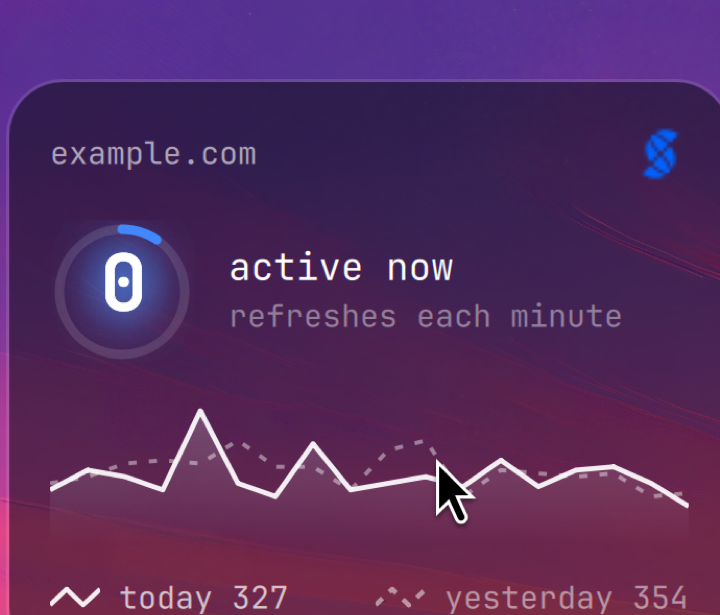
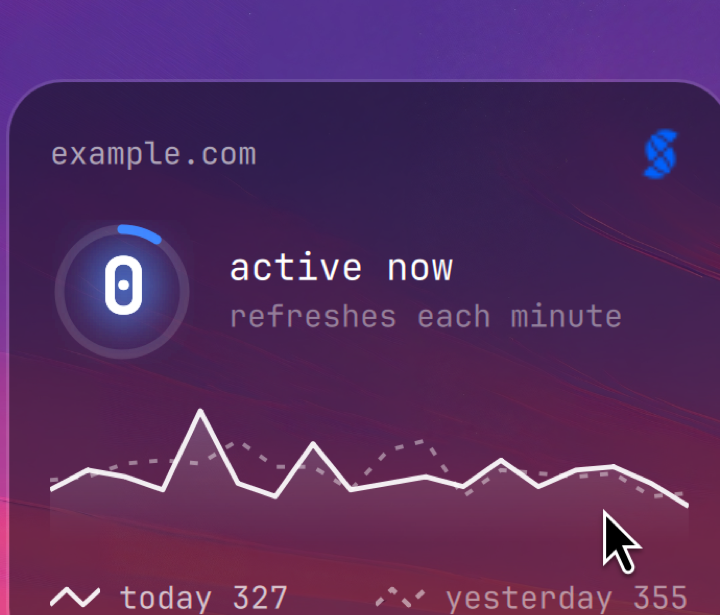
Centre the number in the ring, lighten the tooltip
The glowing count sat a hair high; nudged it onto the ring's centre. The
hover tooltip was near-black and read as a warning; it's now a lighter,
slightly transparent glass tinted to the wallpaper.

diff --git a/Desktop.qml b/Desktop.qml
@@ -167,11 +167,11 @@ Item {
               ctx.shadowColor = small ? "rgba(80,150,255,0.95)" : "rgba(255,255,255,0.35)"
               ctx.shadowBlur = small ? 14 : 6
               ctx.fillStyle = "#ffffff"
-              ctx.fillText(txt, cx, cy + 1)
-              ctx.fillText(txt, cx, cy + 1)
+              ctx.fillText(txt, cx, cy + 2)
+              ctx.fillText(txt, cx, cy + 2)
               // crisp pass on top
               ctx.shadowBlur = 0
-              ctx.fillText(txt, cx, cy + 1)
+              ctx.fillText(txt, cx, cy + 2)
             }
           }
           Column {
@@ -260,8 +260,8 @@ Item {
           Rectangle {
             visible: root.hoverIndex >= 0 && root.hoverIndex < root.hourly.length
             radius: Style.space(7)
-            color: Qt.rgba(0.14, 0.14, 0.19, 0.94)
-            border.color: Qt.rgba(1, 1, 1, 0.15); border.width: 1
+            color: Qt.rgba(0.22, 0.20, 0.30, 0.82)
+            border.color: Qt.rgba(1, 1, 1, 0.18); border.width: 1
             width: tip.implicitWidth + Style.space(14)
             height: tip.implicitHeight + Style.space(10)
             x: {
